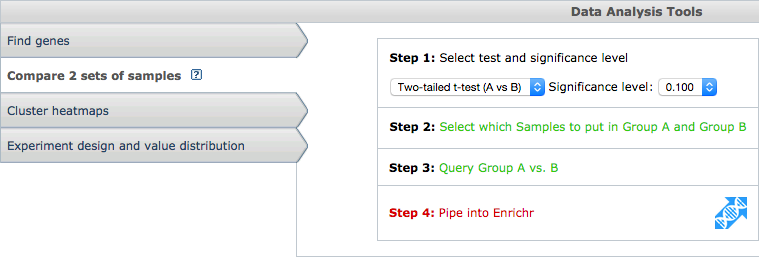
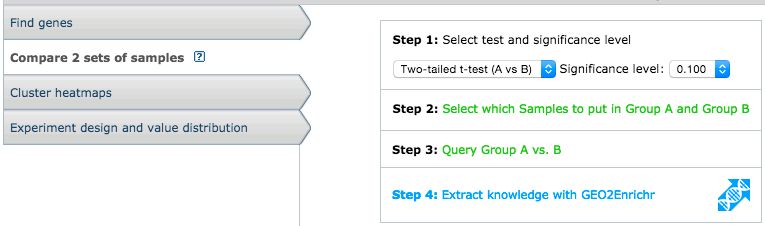
Tweaks to tutorial page and Ui

diff --git a/g2e/web/site/template/tutorial.html b/g2e/web/site/template/tutorial.html
@@ -68,16 +68,20 @@ RHEB	12.4814	12.047	12.5944	12.1776
     </table>
     <h4>Tutorial</h4>
     <p>GEO2Enrichr functions the same in both Chrome and Firefox; this tutorial is for both.</p>
-    <p>Each extension works by embedding additional functionality into relevant GEO pages that you visit. For example, after installing an extension, visiting the page <a href='http://www.ncbi.nlm.nih.gov/sites/GDSbrowser?acc=GDS5077' target='_blank'>GDS5077</a> and clicking "Compare 2 sets of samples", you should see a new hypertext that says <strong>"Pipe to Enrichr"</strong> (Fig. 1).</p>
+    <p>Each extension works by embedding additional functionality into relevant GEO pages that you visit. For example, after installing an extension, visiting the page <a href='http://www.ncbi.nlm.nih.gov/sites/GDSbrowser?acc=GDS5077' target='_blank'>GDS5077</a> and clicking "Compare 2 sets of samples", you should see a new hypertext that says <strong>"Extract knowledge with GEO2Enrichr"</strong> (Fig. 1).</p>
     <img src='web/site/image/screenshot-embedded.png'/>
     <p class='caption'>Fig. 1 Screenshot that shows how GEO2Enrichr adds an additional step to the GEO datasets pipeline.</p>
     <p>If you immediately click that hypertext, you will receive a warning: "Please select 2 or more control samples." This warning occurs because GEO2Enrichr needs you to specify the datasets that you would like to download, process, and analyze. Click <strong>"Select which Samples to put in Group A and Group B"</strong> and select two groups of samples: control samples on the left and treatment/condition samples on the right. In this example, GSM1071454 and GSM1071455 are the control samples and GSM1071457 and GSM1071457 are the treatment or condition samples (Fig. 2). It is important that the control samples are selected on the left and treatment samples are selected on the right because this information is used to determine the up-regulated and down-regulated genes direction.</p>
     <img src='web/site/image/screenshot-samples.png'/>
     <p class='caption'>Fig. 2 Screenshot to show how to identify the control and treatment/condition samples on the GEO datasets site.</p>
-    <p>Now you can open GEO2Enrichr. Click <strong>Pipe to Enrichr</strong> to see the application's main modal dialog box (Fig. 3).</p>
+    <p>Now you can open GEO2Enrichr. Click <strong>Extract knowledge with GEO2Enrichr</strong> to see the application's main modal dialog box (Fig. 3).</p>
     <img src='web/site/image/screenshot-modal.png'/>
     <p class='caption'>Fig. 3 Screenshot of the GEO2Enrichr main modal dialog box.</p>
-    <p>The GEO2Enrichr application <a href='http://en.wikipedia.org/wiki/Data_scraping#Screen_scraping' target='_blank'>screen scrapes</a> the GEO webpage for relevant data including the data the user selected. Please confirm that the accession number, platform, organism, and sample files are all correct. You can edit the first three fields by clicking on their text. If you need to change the sample selection, you must close GEO2Enrichr and re-select the samples via the GEO dataset interactive interface (Step 2).</p>
+    <p>The GEO2Enrichr application screen scrapes the GEO webpage for relevant data including the data the user selected. Please confirm that the accession number, platform, organism, and sample files are all correct. You can edit the first three fields by clicking on their text. If you need to change the sample selection, you must close GEO2Enrichr and re-select the samples via the GEO dataset interactive interface (Step 2).</p>
     <p>Please fill in any metadata about the experiment, such as cell type or tissue, perturbation, and manipulated gene (if relevant). This metadata will be used to annotate your downloadable filenames and a description that uses this information will be sent to Enrichr.</p>
-    <p>Finally, click the <strong>Submit samples</strong> button to submit your data selection to GEO2Enrichr for data processing. Depending on the size of SOFT files and the number of samples you selected, this can take anywhere from a few seconds to a minute or two. A progress bar will keep you updated on the progress. Once the processing is complete, the output will show three links to Enrichr, one for up genes, one for down genes, and one for both up and down combined. In addition to these buttons, you will be provided with a button to download your gene lists as text files.</p>
+    <p>Finally, click the <strong>Extract gene lists</strong> button to submit your data selection to GEO2Enrichr for data processing. Depending on the size of SOFT files and the number of samples you selected, this can take anywhere from a few seconds to a minute or two. Once the processing is complete, you will see a new button that says <strong>"Open results tab"</strong>. Clicking this button will open a results page (Fig 4).</p>
+    <img src=''/>
+    <p>
+
+    </p>
 </section>

diff --git a/g2e/web/extension/chrome/g2e.js b/g2e/web/extension/chrome/g2e.js
@@ -4,7 +4,7 @@ var G2E = (function() {
 // This file is built by deploy.sh in the root directory.
 var DEBUG = false;
 var SERVER = "http://amp.pharm.mssm.edu/g2e/";
-var IMAGE_PATH = "chrome-extension:///logo-50x50.png";
+var IMAGE_PATH = "chrome-extension://pcbdeobileclecleblcnadplfcicfjlp/logo-50x50.png";
 
 var Comm = function(events, notifier, SERVER) {
 
@@ -296,7 +296,7 @@ var Templater = function(IMAGE_PATH) {
                                 '</tr>' +
                                 '<tr id="g2e-disease" class="ui-widget g2e-last">' +
                                     '<td class="g2e-title">' +
-                                        '<label for="g2e-diseaseList">Rare disease**</label>' +
+                                        '<label for="g2e-diseaseList">Disease**</label>' +
                                     '</td>' +
                                     '<td class="g2e-value g2e-last">' +
                                         '<input id="g2e-diseaseList" placeholder="No data">' +

diff --git a/g2e/web/site/index.html b/g2e/web/site/index.html
@@ -3,7 +3,7 @@
 <head>
     <title>GEO2Enrichr</title>
 	<meta charset='UTF-8'>
-    <link rel="icon" href="image/favicon.ico" type="image/x-icon">
+    <link rel="icon" href="web/site/image/favicon.ico" type="image/x-icon">
     <link rel='stylesheet' type='text/css' href='web/site/style/css/open-sans.css'/>
     <link href='http://fonts.googleapis.com/css?family=Inconsolata' rel='stylesheet' type='text/css'>
     <link rel='stylesheet' type='text/css' href='web/site/style/css/main.css'/>
@@ -20,7 +20,6 @@
 
     <!-- Models & Collections -->
     <script src='web/site/model/GeneList.js'></script>
-    <!-- TODO: Shouldn't this be Form.js, since that's what it really represents here? -->
     <script src='web/site/model/SoftFile.js'></script>
     <script src='web/site/model/Extraction.js'></script>
 

diff --git a/g2e/web/extension/firefox/data/g2e.js b/g2e/web/extension/firefox/data/g2e.js
@@ -296,7 +296,7 @@ var Templater = function(IMAGE_PATH) {
                                 '</tr>' +
                                 '<tr id="g2e-disease" class="ui-widget g2e-last">' +
                                     '<td class="g2e-title">' +
-                                        '<label for="g2e-diseaseList">Rare disease**</label>' +
+                                        '<label for="g2e-diseaseList">Disease**</label>' +
                                     '</td>' +
                                     '<td class="g2e-value g2e-last">' +
                                         '<input id="g2e-diseaseList" placeholder="No data">' +

diff --git a/g2e/web/extension/common/js/Templater.js b/g2e/web/extension/common/js/Templater.js
@@ -82,7 +82,7 @@ var Templater = function(IMAGE_PATH) {
                                 '</tr>' +
                                 '<tr id="g2e-disease" class="ui-widget g2e-last">' +
                                     '<td class="g2e-title">' +
-                                        '<label for="g2e-diseaseList">Rare disease**</label>' +
+                                        '<label for="g2e-diseaseList">Disease**</label>' +
                                     '</td>' +
                                     '<td class="g2e-value g2e-last">' +
                                         '<input id="g2e-diseaseList" placeholder="No data">' +

diff --git a/g2e/web/site/style/less/main.less b/g2e/web/site/style/less/main.less
@@ -157,6 +157,9 @@ header {
             width: 50px;
         }
     }
+    .caption {
+        font-style: italic;
+    }
     table {
         table-layout: fixed;
         border-spacing: 0;

diff --git a/g2e/web/site/style/css/main.css b/g2e/web/site/style/css/main.css
@@ -152,6 +152,9 @@ header h1 a {
 .content img.browser-logo {
   width: 50px;
 }
+.content .caption {
+  font-style: italic;
+}
 .content table {
   table-layout: fixed;
   border-spacing: 0;

diff --git a/g2e/core/genelist/enrichrlink.py b/g2e/core/genelist/enrichrlink.py
@@ -30,6 +30,9 @@ def get_link(genes, description):
     # 1. POST the data to the server. We do not need the response.
     sess.post(BASE_URL + 'enrich', files={ 'list': (None, genes_str), 'description': (None, description) })
     
+    # I've noticed that sometimes the GET errors out and wonder if it is a
+    # race condition of some sort. This throttles the back-to-back requests
+    # and seems to resolve the issue on our end.
     time.sleep(0.5)
 
     # 2. GET our link via the "share" endpoint. The requests module (and
